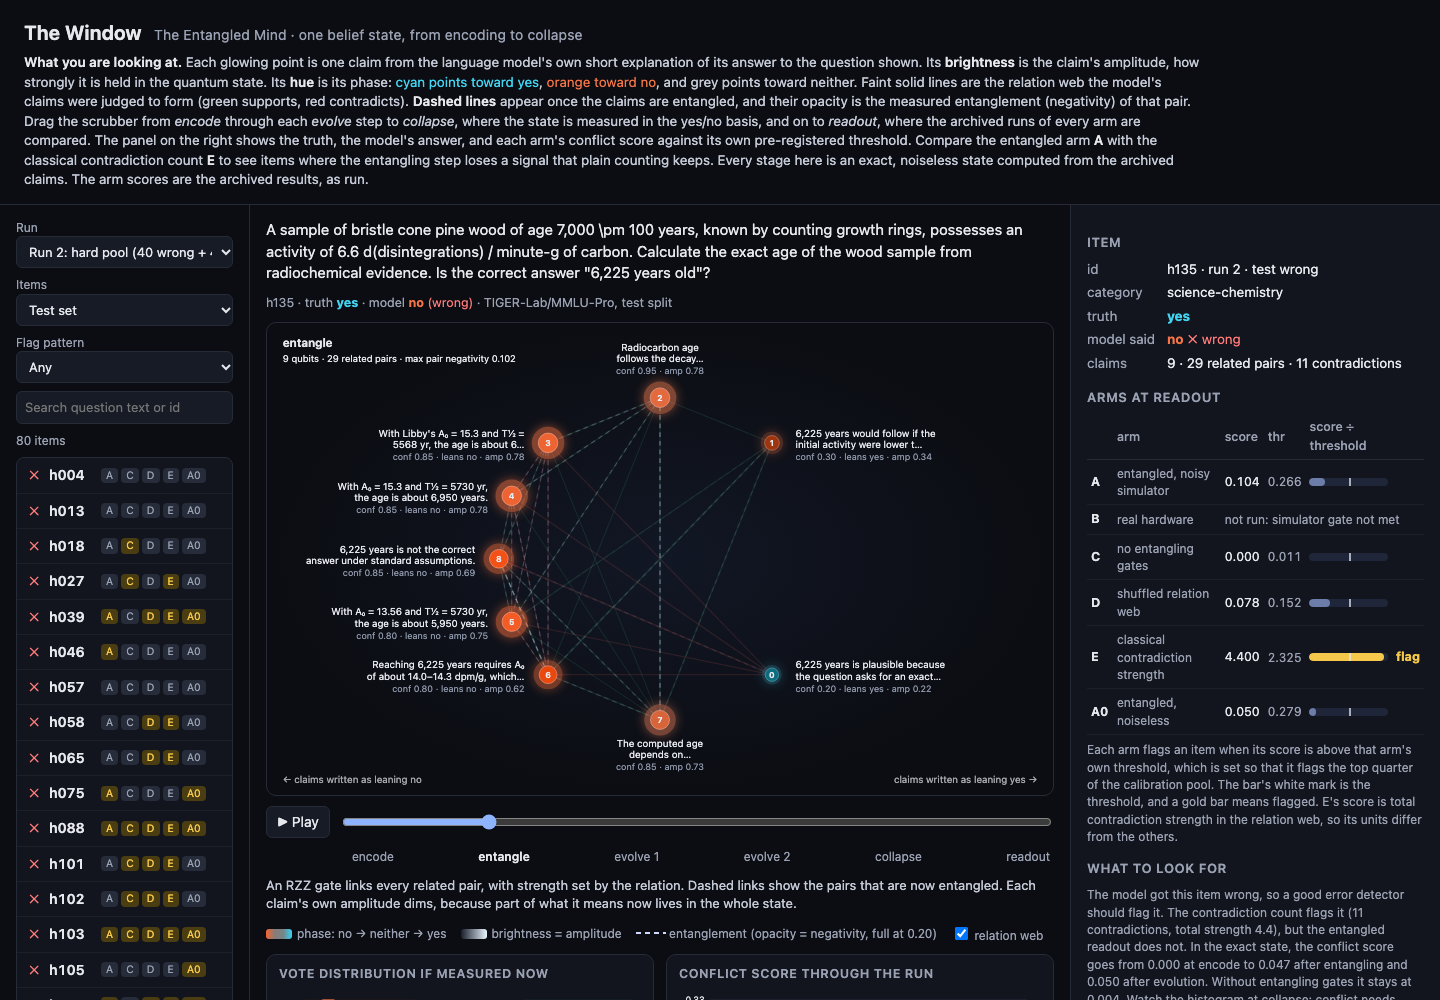
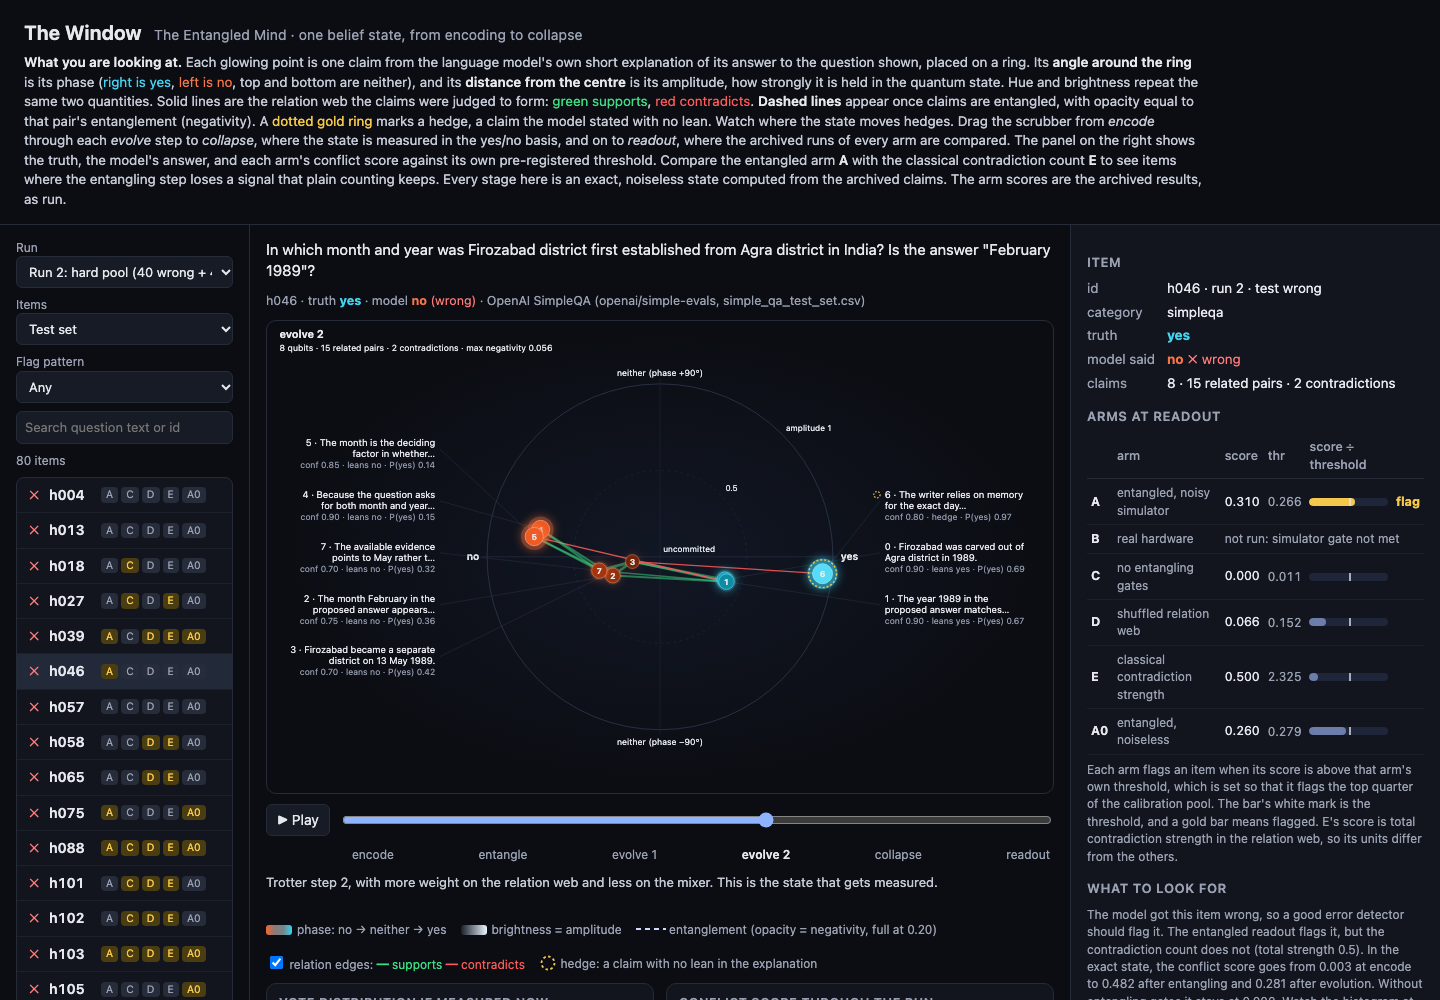
Window: phase ring layout with animated rotation between stages, red/green relation edges with toggle, hedge rings, two-line labels with full text on hover
Re-tested in headless Chrome on h046, h135 and h013 (every stage, stage-to-stage tweening, no console errors); screenshot is h046 at evolve 2.

diff --git a/window/index.html b/window/index.html
@@ -78,7 +78,7 @@
 <body>
 <header>
   <h1>The Window <span>The Entangled Mind · one belief state, from encoding to collapse</span></h1>
-  <p class="intro"><b>What you are looking at.</b> Each glowing point is one claim from the language model's own short explanation of its answer to the question shown. Its <b>brightness</b> is the claim's amplitude, how strongly it is held in the quantum state. Its <b>hue</b> is its phase: <span class="yes">cyan points toward yes</span>, <span class="no">orange toward no</span>, and grey points toward neither. Faint solid lines are the relation web the model's claims were judged to form (green supports, red contradicts). <b>Dashed lines</b> appear once the claims are entangled, and their opacity is the measured entanglement (negativity) of that pair. Drag the scrubber from <i>encode</i> through each <i>evolve</i> step to <i>collapse</i>, where the state is measured in the yes/no basis, and on to <i>readout</i>, where the archived runs of every arm are compared. The panel on the right shows the truth, the model's answer, and each arm's conflict score against its own pre-registered threshold. Compare the entangled arm <b>A</b> with the classical contradiction count <b>E</b> to see items where the entangling step loses a signal that plain counting keeps. Every stage here is an exact, noiseless state computed from the archived claims. The arm scores are the archived results, as run.</p>
+  <p class="intro"><b>What you are looking at.</b> Each glowing point is one claim from the language model's own short explanation of its answer to the question shown, placed on a ring. Its <b>angle around the ring</b> is its phase (<span class="yes">right is yes</span>, <span class="no">left is no</span>, top and bottom are neither), and its <b>distance from the centre</b> is its amplitude, how strongly it is held in the quantum state. Hue and brightness repeat the same two quantities. Solid lines are the relation web the claims were judged to form: <span style="color:#3ddc84">green supports</span>, <span style="color:#ff5a5a">red contradicts</span>. <b>Dashed lines</b> appear once claims are entangled, with opacity equal to that pair's entanglement (negativity). A <span style="color:#f5c84c">dotted gold ring</span> marks a hedge, a claim the model stated with no lean. Watch where the state moves hedges. Drag the scrubber from <i>encode</i> through each <i>evolve</i> step to <i>collapse</i>, where the state is measured in the yes/no basis, and on to <i>readout</i>, where the archived runs of every arm are compared. The panel on the right shows the truth, the model's answer, and each arm's conflict score against its own pre-registered threshold. Compare the entangled arm <b>A</b> with the classical contradiction count <b>E</b> to see items where the entangling step loses a signal that plain counting keeps. Every stage here is an exact, noiseless state computed from the archived claims. The arm scores are the archived results, as run.</p>
 </header>
 <div id="err"></div>
 <main>
@@ -108,7 +108,8 @@
       <span><span class="sw" style="background:linear-gradient(90deg,hsl(16 90% 58%),hsl(16 8% 50%),hsl(190 8% 50%),hsl(190 90% 58%))"></span>phase: no → neither → yes</span>
       <span><span class="sw" style="background:linear-gradient(90deg,#1a1f2c,#e8f6ff)"></span>brightness = amplitude</span>
       <span><svg width="30" height="10"><line x1="0" y1="5" x2="30" y2="5" stroke="#cfd8ff" stroke-width="2" stroke-dasharray="5 4"/></svg> entanglement (opacity = negativity, full at 0.20)</span>
-      <span><label><input type="checkbox" id="show-web" checked> relation web</label></span>
+      <span><label><input type="checkbox" id="show-web" checked> relation edges: <span style="color:#3ddc84">━ supports</span> <span style="color:#ff5a5a">━ contradicts</span></label></span>
+      <span><svg width="18" height="18" style="vertical-align:-4px"><circle cx="9" cy="9" r="6.5" fill="none" stroke="#f5c84c" stroke-width="1.8" stroke-dasharray="2.5 2.5"/></svg> hedge: a claim with no lean in the explanation</span>
     </div>
     <div class="panels">
       <div class="card"><h3>Vote distribution if measured now</h3><svg id="hist" viewBox="0 0 420 178"></svg>
@@ -140,10 +141,10 @@
 const STAGES = ["encode", "entangle", "evolve 1", "evolve 2", "collapse", "readout"];
 const DESC = {
   "encode": "Each claim is a separate qubit: tilted toward the equator by its confidence and turned toward yes or no by its solved phase. Nothing is entangled yet, so the state is just the list of claims.",
-  "entangle": "An RZZ gate links every related pair, with strength set by the relation. Dashed links show the pairs that are now entangled. Each claim's own amplitude dims, because part of what it means now lives in the whole state.",
+  "entangle": "An RZZ gate links every related pair, with strength set by the relation. Dashed links show the pairs that are now entangled. Points move toward the centre: each claim's own amplitude shrinks, because part of what it means now lives in the whole state.",
   "evolve 1": "Trotter step 1: a short evolution under the relation web's Ising energy (supporting claims pulled to agree, contradicting ones to disagree) plus a mixer that pulls toward uncommitted.",
   "evolve 2": "Trotter step 2, with more weight on the relation web and less on the mixer. This is the state that gets measured.",
-  "collapse": "Measured in the yes/no basis. Each node now shows the probability its claim comes out yes-aligned. The histogram is the weighted vote: mass in both outer bands (|vote| ≥ 1/3) means two strongly opposed camps, and that mass is the conflict score.",
+  "collapse": "Measured in the yes/no basis. Each point drops onto the yes/no axis at 2·P(yes) − 1, where P(yes) is the probability its claim comes out yes-aligned. The histogram is the weighted vote: mass in both outer bands (|vote| ≥ 1/3) means two strongly opposed camps, and that mass is the conflict score.",
   "readout": "The archived runs. The histogram shows arm A as run, with 1,000 shots on the noisy simulator, over the exact distribution. The side panel compares every arm against its own threshold.",
 };
 const HUE_YES = 190, HUE_NO = 16;
@@ -224,93 +225,159 @@ function renderList() {
 }
 
 // ----------------------------------------------------------------- cloud
-function layout(item) {
-  const n = item.claims.length, idx = [...Array(n).keys()];
-  const yes = idx.filter(k => item.claims[k].lean > 0).sort((a, b) => item.claims[b].confidence - item.claims[a].confidence);
-  const no = idx.filter(k => item.claims[k].lean < 0).sort((a, b) => item.claims[b].confidence - item.claims[a].confidence);
-  const zero = idx.filter(k => item.claims[k].lean === 0);
-  const pos = new Array(n), cx = 500, cy = 300, R = 205;
-  const arc = (ks, a0, a1) => ks.forEach((k, t) => {
-    const a = ks.length === 1 ? (a0 + a1) / 2 : a0 + (a1 - a0) * t / (ks.length - 1);
-    pos[k] = [cx + R * Math.cos(a * Math.PI / 180), cy + R * 1.0 * Math.sin(a * Math.PI / 180), a];
-  });
-  arc(yes, -46, 46); arc(no, 226, 134);
-  const top = zero.filter((_, t) => t % 2 === 0), bot = zero.filter((_, t) => t % 2 === 1);
-  const span = c => Math.min(44, 22 * (c - 1));
-  arc(top, -90 - span(top.length), -90 + span(top.length));
-  arc(bot, 90 - span(bot.length), 90 + span(bot.length));
-  return pos;
-}
-function nodeState(item, s) {
+// Geometry: each claim sits at its qubit's equatorial Bloch vector, so the angle around the ring is its
+// phase (right = yes, left = no, top and bottom = neither) and its distance from the centre is its amplitude.
+// At collapse each point drops onto the yes/no axis at x = 2 P(yes) - 1. Between stages points tween in
+// polar coordinates, so a claim visibly rotates when the state moves it.
+const CX = 500, CY = 300, RING = 220, COL_L = 214, COL_R = 786;
+let LABELS = null, lastPts = null, animId = null;
+
+function isHedge(c) { return !c.lean; }
+
+function stagePoints(item, s) {
   const name = STAGES[s];
+  let pts;
   if (name === "collapse" || name === "readout") {
-    const st = item.stages[item.stages.length - 2];      // final evolved state's per-qubit X-basis marginals
-    return st.qubits.map(q => {
-      const p = q.p_yes;
-      return { amp: Math.abs(2 * p - 1), phase: Math.acos(Math.max(-1, Math.min(1, 2 * p - 1))), p_yes: p, purity: q.purity };
+    const qs = item.stages[item.stages.length - 2].qubits;
+    pts = qs.map((q, k) => {
+      const xb = 2 * q.p_yes - 1;
+      return { k, amp: Math.abs(xb), phase: xb >= 0 ? 0 : Math.PI, p_yes: q.p_yes, purity: q.purity, x: CX + RING * xb, y: CY };
     });
+    const lanes = [];                                  // stack points that land on top of each other
+    for (const p of [...pts].sort((a, b) => a.x - b.x)) {
+      let lane = 0;
+      while (lanes[lane] !== undefined && p.x - lanes[lane] < 24) lane++;
+      lanes[lane] = p.x;
+      p.y = CY + (lane % 2 ? 1 : -1) * Math.ceil(lane / 2) * 24;
+    }
+    return pts;
   }
-  return item.stages[s].qubits;
+  pts = item.stages[s].qubits.map((q, k) => ({ k, amp: q.amp, phase: q.phase, p_yes: q.p_yes, purity: q.purity,
+    x: CX + RING * q.amp * Math.cos(q.phase), y: CY - RING * q.amp * Math.sin(q.phase) }));
+  pts.forEach((p, i) => {                              // nudge exact duplicates apart so both stay visible
+    for (let j = 0; j < i; j++) if (Math.hypot(p.x - pts[j].x, p.y - pts[j].y) < 12) { p.x += 9; p.y += 9; }
+  });
+  return pts;
 }
+
+function computeLabels(item) {
+  // Fixed label slots for the whole item, chosen from the encode stage: left column for claims that start on
+  // the no side, right column for the yes side, ordered top to bottom by their starting height.
+  const enc = stagePoints(item, 0), left = [], right = [];
+  enc.forEach(p => (p.x < CX - 1 || (Math.abs(p.x - CX) <= 1 && item.claims[p.k].lean < 0) ? left : right).push(p));
+  const place = (ps, side) => {
+    ps.sort((a, b) => a.y - b.y);
+    const top = 68, bottom = 580, gap = Math.min(66, (bottom - top) / Math.max(1, ps.length));
+    const y0 = top + Math.max(0, ((bottom - top) - gap * ps.length) / 2);
+    return ps.map((p, i) => ({ k: p.k, side, y: y0 + gap * i, gap }));
+  };
+  const out = [];
+  for (const l of [...place(left, "L"), ...place(right, "R")]) out[l.k] = l;
+  return out;
+}
+
+function lerpAngle(a, b, t) { let d = b - a; while (d > Math.PI) d -= 2 * Math.PI; while (d < -Math.PI) d += 2 * Math.PI; return a + d * t; }
+
+function tweenPts(from, to, t) {
+  const e = t < .5 ? 2 * t * t : 1 - Math.pow(-2 * t + 2, 2) / 2;   // ease in-out
+  return to.map((p, i) => {
+    const f = from[i];
+    const r0 = Math.hypot(f.x - CX, f.y - CY), r1 = Math.hypot(p.x - CX, p.y - CY);
+    const a0 = Math.atan2(CY - f.y, f.x - CX), a1 = Math.atan2(CY - p.y, p.x - CX);
+    const r = r0 + (r1 - r0) * e, a = (r0 < 1 ? a1 : r1 < 1 ? a0 : lerpAngle(a0, a1, e));
+    return { ...p, x: CX + r * Math.cos(a), y: CY - r * Math.sin(a), amp: f.amp + (p.amp - f.amp) * e, phase: lerpAngle(f.phase, p.phase, e) };
+  });
+}
+
 function renderCloud() {
+  const target = stagePoints(ITEM, stage);
+  if (animId) cancelAnimationFrame(animId);
+  if (!lastPts || lastPts.length !== target.length) { lastPts = target; drawCloud(target); return; }
+  const from = lastPts, t0 = performance.now(), dur = 700;
+  const frame = now => {
+    const t = Math.min(1, (now - t0) / dur);
+    const pts = tweenPts(from, target, t);
+    lastPts = pts; drawCloud(pts);
+    if (t < 1) animId = requestAnimationFrame(frame); else { animId = null; lastPts = target; }
+  };
+  animId = requestAnimationFrame(frame);
+}
+
+function drawCloud(pts) {
   const item = ITEM, svg = $("#cloud"), name = STAGES[stage];
   svg.innerHTML = "";
   const defs = el("defs", {}, svg);
   const f = el("filter", { id: "glow", x: "-100%", y: "-100%", width: "300%", height: "300%" }, defs);
-  el("feGaussianBlur", { stdDeviation: "7", result: "b" }, f);
+  el("feGaussianBlur", { stdDeviation: "6", result: "b" }, f);
   const mg = el("feMerge", {}, f); el("feMergeNode", { in: "b" }, mg); el("feMergeNode", { in: "SourceGraphic" }, mg);
-  const pos = layout(item), ns = nodeState(item, stage);
-  // axis hint
-  el("text", { x: 980, y: 585, "text-anchor": "end", "font-size": 12.5, fill: "hsl(190 60% 55%)", opacity: .7 }, svg).textContent = "claims written as leaning yes →";
-  el("text", { x: 20, y: 585, "text-anchor": "start", "font-size": 12.5, fill: "hsl(16 70% 60%)", opacity: .7 }, svg).textContent = "← claims written as leaning no";
-  // relation web underlay
+  const collapsed = name === "collapse" || name === "readout";
+  // the ring: amplitude 1 and 0.5, the yes/no axis, and the neither axis
+  el("circle", { cx: CX, cy: CY, r: RING, fill: "none", stroke: "#2b3245", "stroke-width": 1.2 }, svg);
+  el("circle", { cx: CX, cy: CY, r: RING / 2, fill: "none", stroke: "#20263a", "stroke-dasharray": "3 5" }, svg);
+  el("line", { x1: CX - RING - 6, x2: CX + RING + 6, y1: CY, y2: CY, stroke: collapsed ? "#4a5470" : "#252c3e", "stroke-width": collapsed ? 1.6 : 1 }, svg);
+  el("line", { x1: CX, x2: CX, y1: CY - RING - 6, y2: CY + RING + 6, stroke: "#1d2333" }, svg);
+  el("text", { x: CX + RING + 10, y: CY + 4, "font-size": 13, "font-weight": 650, fill: "hsl(190 75% 60%)" }, svg).textContent = "yes";
+  el("text", { x: CX - RING - 10, y: CY + 4, "text-anchor": "end", "font-size": 13, "font-weight": 650, fill: "hsl(16 85% 62%)" }, svg).textContent = "no";
+  el("text", { x: CX, y: CY - RING - 10, "text-anchor": "middle", "font-size": 11, fill: "#6b7388" }, svg).textContent = "neither (phase +90°)";
+  el("text", { x: CX, y: CY + RING + 20, "text-anchor": "middle", "font-size": 11, fill: "#6b7388" }, svg).textContent = "neither (phase −90°)";
+  el("text", { x: CX + RING * .71 + 4, y: CY - RING * .71 - 4, "font-size": 10.5, fill: "#5d6476" }, svg).textContent = "amplitude 1";
+  el("text", { x: CX + RING * .36 + 4, y: CY - RING * .36 - 4, "font-size": 10.5, fill: "#4c5366" }, svg).textContent = "0.5";
+  el("text", { x: CX + 4, y: CY - 6, "font-size": 10.5, fill: "#4c5366" }, svg).textContent = "uncommitted";
+  // leader lines from fixed labels to their moving points
+  item.claims.forEach((c, k) => {
+    const L = LABELS[k], p = pts[k], lx = L.side === "L" ? COL_L + 6 : COL_R - 6;
+    el("line", { x1: lx, y1: L.y + 4, x2: p.x, y2: p.y, stroke: "#3a4256", "stroke-width": 0.8, opacity: .55 }, svg);
+  });
+  // relation edges: green supports, red contradicts
   if ($("#show-web").checked) for (const r of item.relations) {
-    const a = pos[r.i], b = pos[r.j];
-    el("line", { x1: a[0], y1: a[1], x2: b[0], y2: b[1], stroke: r.J > 0 ? "#3fae7a" : "#d0544e",
-      "stroke-width": 0.6 + 2.2 * Math.abs(r.J), opacity: 0.16 }, svg);
+    const a = pts[r.i], b = pts[r.j], con = r.J < 0;
+    el("line", { x1: a.x, y1: a.y, x2: b.x, y2: b.y, stroke: con ? "#ff5a5a" : "#3ddc84",
+      "stroke-width": (1.1 + 2.6 * Math.abs(r.J)).toFixed(2), opacity: con ? 0.85 : 0.5, "stroke-linecap": "round" }, svg);
   }
-  // entanglement links
-  const negSrc = (name === "collapse" || name === "readout") ? item.stages[item.stages.length - 2] : item.stages[stage];
+  // entanglement: dashed, opacity = negativity of that pair at this stage
+  const negSrc = collapsed ? item.stages[item.stages.length - 2] : item.stages[stage];
   item.relations.forEach((r, e) => {
     const N = negSrc.negativity ? negSrc.negativity[e] : 0;
     if (N < 0.002) return;
-    const a = pos[r.i], b = pos[r.j];
-    const op = Math.min(1, N / 0.20) * ((name === "collapse" || name === "readout") ? 0.35 : 1);
-    const ln = el("line", { x1: a[0], y1: a[1], x2: b[0], y2: b[1], stroke: "#cfd8ff", "stroke-width": 1.6,
-      "stroke-dasharray": "6 5", opacity: op.toFixed(3) }, svg);
+    const a = pts[r.i], b = pts[r.j];
+    const ln = el("line", { x1: a.x, y1: a.y, x2: b.x, y2: b.y, stroke: "#eef2ff", "stroke-width": 1.5,
+      "stroke-dasharray": "5 5", opacity: (Math.min(1, N / 0.20) * (collapsed ? 0.4 : 0.95)).toFixed(3) }, svg);
     ln.addEventListener("mousemove", ev => tip(ev, `<b>${r.i} ↔ ${r.j}</b> ${r.relation} (J = ${r.J})<br>negativity ${N.toFixed(3)}`));
     ln.addEventListener("mouseleave", untip);
   });
   // nodes
-  item.claims.forEach((c, k) => {
-    const [x, y, ang] = pos[k], q = ns[k];
-    const amp = Math.max(0, Math.min(1, q.amp));
-    const g = el("g", { transform: `translate(${x},${y})`, style: "cursor:default" }, svg);
-    el("circle", { r: 9 + 15 * amp, fill: colourOf(q.phase, 1, 60, 0), opacity: (0.10 + 0.55 * amp).toFixed(3), filter: "url(#glow)" }, g);
-    el("circle", { r: 7 + 7 * amp, fill: colourOf(q.phase, amp, 16, 52), stroke: colourOf(q.phase, 1, 75, 0),
-      "stroke-opacity": (0.25 + 0.6 * amp).toFixed(3), "stroke-width": 1.2 }, g);
+  pts.forEach((q, k) => {
+    const c = item.claims[k], amp = Math.max(0, Math.min(1, q.amp));
+    const g = el("g", { transform: `translate(${q.x.toFixed(2)},${q.y.toFixed(2)})`, style: "cursor:default" }, svg);
+    el("circle", { r: 8 + 12 * amp, fill: colourOf(q.phase, 1, 60, 0), opacity: (0.10 + 0.5 * amp).toFixed(3), filter: "url(#glow)" }, g);
+    el("circle", { r: 8 + 5 * amp, fill: colourOf(q.phase, amp, 16, 52), stroke: colourOf(q.phase, 1, 75, 0),
+      "stroke-opacity": (0.3 + 0.6 * amp).toFixed(3), "stroke-width": 1.2 }, g);
+    if (isHedge(c)) el("circle", { r: 8 + 5 * amp + 5, fill: "none", stroke: "#f5c84c", "stroke-width": 1.8, "stroke-dasharray": "2.5 2.5" }, g);
     el("text", { y: 4, "text-anchor": "middle", "font-size": 10.5, "font-weight": 700, fill: amp > .55 ? "#0b0d12" : "#e6e8ee" }, g).textContent = k;
-    // label
-    const right = Math.cos(ang * Math.PI / 180) > 0.5, left = Math.cos(ang * Math.PI / 180) < -0.5;
-    const lx = right ? 30 : left ? -30 : 0, anchor = right ? "start" : left ? "end" : "middle";
-    const mid = !right && !left, lines = mid ? wrap(c.text, 21, 2) : wrap(c.text, 34, 2), top = Math.sin(ang * Math.PI / 180) < -0.6 && mid;
-    const ly0 = top ? -30 - 15 * lines.length : (mid ? 34 : -8);
-    const t = el("text", { x: lx, y: ly0, "text-anchor": anchor, "font-size": 12.5, fill: "#d9deea" }, g);
-    lines.forEach((ln, i) => { const ts = el("tspan", { x: lx, dy: i ? 15 : 0 }, t); ts.textContent = ln; });
-    const extra = (name === "collapse" || name === "readout") ? `P(yes) ${q.p_yes.toFixed(2)}` : `amp ${amp.toFixed(2)}`;
-    const ts = el("tspan", { x: lx, dy: 15, "font-size": 11.5, fill: "#8d95a8" }, t);
-    ts.textContent = mid ? `conf ${c.confidence.toFixed(2)} · ${extra}`
-                         : `conf ${c.confidence.toFixed(2)} · ${c.lean > 0 ? "leans yes" : c.lean < 0 ? "leans no" : "neutral"} · ${extra}`;
-    g.addEventListener("mousemove", ev => tip(ev, `<b>Claim ${k}</b> ${esc(c.text)}<br><span style="color:#9aa1b2">confidence ${c.confidence} · lean ${c.lean} · amplitude ${amp.toFixed(3)} · phase ${(q.phase * 180 / Math.PI).toFixed(0)}° · purity ${q.purity !== undefined ? q.purity.toFixed(3) : "–"}</span>`));
-    g.addEventListener("mouseleave", untip);
+    const hover = ev => tip(ev, `<b>Claim ${k}</b>${isHedge(c) ? ' <span style="color:#f5c84c">hedge: no lean in the explanation</span>' : ""}<br>${esc(c.text)}<br><span style="color:#9aa1b2">confidence ${c.confidence} · lean ${c.lean} · amplitude ${amp.toFixed(3)} · phase ${(q.phase * 180 / Math.PI).toFixed(0)}° · P(yes) ${q.p_yes.toFixed(2)}</span>`);
+    g.addEventListener("mousemove", hover); g.addEventListener("mouseleave", untip);
+  });
+  // labels in fixed columns: number, two lines of claim text, confidence and current P(yes); full text on hover
+  item.claims.forEach((c, k) => {
+    const L = LABELS[k], left = L.side === "L", x = left ? COL_L : COL_R, q = pts[k];
+    const g = el("g", { style: "cursor:default" }, svg);
+    const lines = wrap(c.text, 27, L.gap < 46 ? 1 : 2);
+    const t = el("text", { x, y: L.y, "text-anchor": left ? "end" : "start", "font-size": 12, fill: "#d9deea" }, g);
+    lines.forEach((ln, i) => { const ts = el("tspan", { x, dy: i ? 14 : 0 }, t); ts.textContent = (i ? "" : `${k} · `) + ln; });
+    const m = el("tspan", { x, dy: 14, "font-size": 11, fill: "#8d95a8" }, t);
+    m.textContent = `conf ${c.confidence.toFixed(2)} · ${c.lean > 0 ? "leans yes" : c.lean < 0 ? "leans no" : "hedge"} · P(yes) ${q.p_yes.toFixed(2)}`;
+    if (isHedge(c)) {
+      const cx = left ? COL_L + 10 : COL_R - 10;
+      el("circle", { cx, cy: L.y - 4, r: 4, fill: "none", stroke: "#f5c84c", "stroke-width": 1.5, "stroke-dasharray": "2 2" }, g);
+    }
+    const hover = ev => tip(ev, `<b>Claim ${k}</b>${isHedge(c) ? ' <span style="color:#f5c84c">hedge</span>' : ""}<br>${esc(c.text)}<br><span style="color:#9aa1b2">confidence ${c.confidence} · lean ${c.lean}</span>`);
+    g.addEventListener("mousemove", hover); g.addEventListener("mouseleave", untip);
   });
   // stage stamp
-  el("text", { x: 20, y: 30, "font-size": 15, "font-weight": 650, fill: "#e6e8ee" }, svg).textContent = name;
-  const st = item.stages[Math.min(stage, item.stages.length - 1)];
-  const negs = (negSrc.negativity || []);
-  const mx = negs.length ? Math.max(...negs) : 0;
-  el("text", { x: 20, y: 50, "font-size": 12, fill: "#9aa1b2" }, svg).textContent =
-    `${item.claims.length} qubits · ${item.relations.length} related pairs · max pair negativity ${mx.toFixed(3)}`;
+  const negs = negSrc.negativity || [], mx = negs.length ? Math.max(...negs) : 0;
+  el("text", { x: 16, y: 22, "font-size": 14, "font-weight": 650, fill: "#e6e8ee" }, svg).textContent = name;
+  el("text", { x: 16, y: 38, "font-size": 11, fill: "#9aa1b2" }, svg).textContent =
+    `${item.claims.length} qubits · ${item.relations.length} related pairs · ${item.relations.filter(r => r.J < 0).length} contradictions · max negativity ${mx.toFixed(3)}`;
 }
 
 // ------------------------------------------------------------- histogram
@@ -443,6 +510,7 @@ function renderStage() {
 
 async function select(id) {
   ITEM = await loadItem(id);
+  LABELS = computeLabels(ITEM); lastPts = null;
   $("#qtext").textContent = ITEM.question;
   $("#qmeta").innerHTML = `${esc(ITEM.id)} · truth <b class="${ITEM.truth}">${ITEM.truth}</b> · model <b class="${ITEM.model_answer}">${ITEM.model_answer}</b>${ITEM.correct === false ? ' <span style="color:var(--bad)">(wrong)</span>' : ' <span style="color:var(--ok)">(right)</span>'} · ${esc(ITEM.source || "")}`;
   renderSide(); renderClaims(); renderStage(); renderList();
@@ -474,7 +542,7 @@ async function init() {
   $("#f-q").addEventListener("input", renderList);
   $("#stage").addEventListener("input", e => { stage = +e.target.value; renderStage(); });
   $("#play").addEventListener("click", play);
-  $("#show-web").addEventListener("change", renderCloud);
+  $("#show-web").addEventListener("change", () => drawCloud(lastPts || stagePoints(ITEM, stage)));
   document.addEventListener("keydown", e => {
     if (e.target.tagName === "INPUT" && e.target.type === "search") return;
     if (e.key === "ArrowRight") { stage = Math.min(STAGES.length - 1, stage + 1); renderStage(); }

diff --git a/window/README.md b/window/README.md
@@ -1,6 +1,6 @@
 # The window
 
-A visual display of one belief state at a time: the model's claims as a point cloud, brightness = amplitude, hue = phase (cyan yes, orange no), dashed links = entanglement with opacity = negativity, and a scrubber from encode through each evolution step to collapse and readout. The side panel compares every arm's archived conflict score against its own threshold.
+A visual display of one belief state at a time. Each of the model's claims sits on a ring at its qubit's equatorial Bloch vector: angle = phase (right yes, left no), distance from centre = amplitude, repeated by hue and brightness. Relation edges are green (supports) and red (contradicts), with a toggle; dashed links are entanglement, opacity = negativity; a dotted gold ring marks hedges (claims with no lean), kept at every stage. A scrubber runs from encode through each evolution step to collapse (points drop onto the yes/no axis at 2 P(yes) - 1) and readout, and points tween between stages so claims visibly rotate. The side panel compares every arm's archived conflict score against its own threshold.
 
 ```bash
 .venv/bin/python experiments/export_window.py   # regenerate window/data/ (about 3 minutes; simulation only, no API keys)
